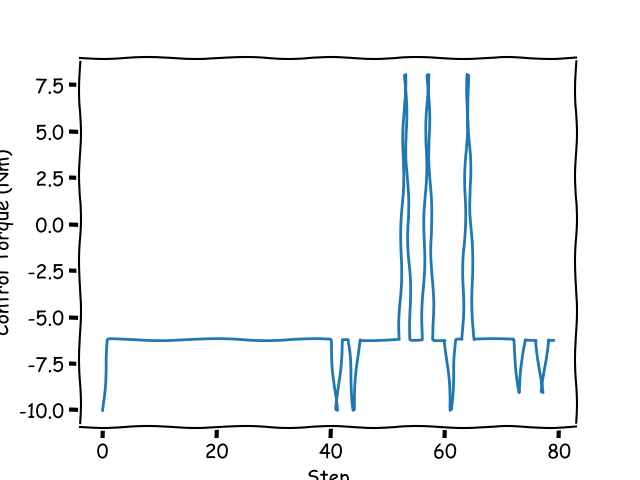
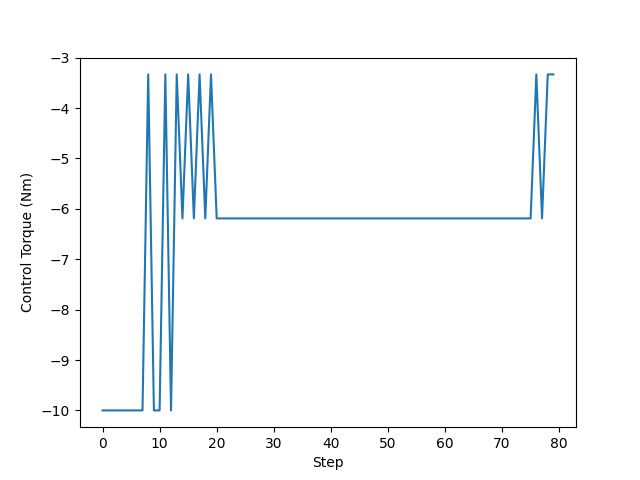
switched dynamics calculation

diff --git a/pendulum_envs.py b/pendulum_envs.py
@@ -1,12 +1,6 @@
-# Import required libararies
-from pickletools import uint1
 import gym
-import matplotlib.pyplot as plt 
-import random
 import numpy as np
-from math import sin, cos
 from gym.spaces import *
-
 from math import *
 from PIL import *
 
@@ -23,16 +17,14 @@ class DoublePendulum(gym.Env):
         self.l2 = 1.0 # length of pendulum 2 (m)
 
         self.maxv = 8
-        self.max_cost = 0
 
         self.max_u = max_torque
         self.nu = nu
         if make_single:
-            self.m2 = 0
-            self.l2 = 0.01
+            self.m2 = 0.001
+            self.l2 = 0.001
 
         self.single = make_single
-        self.g = 9.81 # gravity (m/s)
         self.frix = 0.1 # friction coef
 
         self.q = np.zeros(4) # [th1, th2, dth1, dth2]
@@ -40,8 +32,6 @@ class DoublePendulum(gym.Env):
         self._update_x()
         self.u = 0.0
 
-        self.history = []
-        self.saving_history = False
         self.images = []
         self.last_cost =0.0
 
@@ -50,43 +40,12 @@ class DoublePendulum(gym.Env):
         # print(newU)
         return newU
 
-    def dynamics_update(self,dt, u):
-        try:
-            acc1 = (-self.m2*self.l1*self.q[2]**2*np.sin(self.q[0] - self.q[1])*np.cos(self.q[0] - self.q[1]) + self.m2*self.g*np.sin(self.q[1])*np.cos(self.q[0] - self.q[1]) - self.m2*self.l2*self.q[3]**2*np.sin(self.q[0] - self.q[1]) - (self.m1 + self.m2)*self.g*np.sin(self.q[0])) / ((self.m1 + self.m2)*self.l1 - self.m2*self.l1*np.cos(self.q[0] - self.q[1])**2) - self.frix * self.q[2]
-            acc2 = (self.m2*self.l2*self.q[3]**2*np.sin(self.q[0] - self.q[1])*np.cos(self.q[0] - self.q[1]) + (self.m1 + self.m2)*self.g*np.sin(self.q[0])*np.cos(self.q[0] - self.q[1]) + self.l1*self.q[2]**2*np.sin(self.q[0]-self.q[1])*(self.m1 + self.m2) - self.g*np.sin(self.q[1])*(self.m1 + self.m2)) / (self.l2*(self.m1 + self.m2) - self.m2*self.l2*np.cos(self.q[0] - self.q[1])**2) - self.frix * self.q[3]
-            # yes it's horrible but it's not about the pendulum simulation is it? :)
-
-            acc1 += u
-            self.u = u
-
-            self.q[2] += dt * acc1
-            self.q[3] += dt * acc2
-            self.q[2] = np.clip(self.q[2], - self.maxv, self.maxv)
-            self.q[3] = np.clip(self.q[3], - self.maxv, self.maxv)
-            self.q[0] += (self.q[2] * dt)
-            self.q[1] += (self.q[3] * dt)
-            # self.q[0] = self.q[0] % (np.pi * 2)
-            # self.q[1] = self.q[1] % (np.pi * 2)
-
-            self._update_x()
-
-            if self.saving_history:
-                self.history.append(self.q)
-            return True
-        except Exception as e:
-            print(self.q)
-            print(u)
-            print(e)
-            return False 
-
     def step(self, action):
         dt = self.DT / np.double(self.updates_per_step)
         terminal = False
         for i in range(self.updates_per_step):
-            if not self.dynamics_update(dt, self.intu2u(action)):
-                terminal = True
-                break
-
+            self.dynamics_update(dt, self.intu2u(action))
+        self._update_x()
         reward = self._calculate_reward()
         return self.q, reward, terminal, False, 0
         # return self.x, reward, terminal, False, 0
@@ -97,7 +56,7 @@ class DoublePendulum(gym.Env):
         cost = U_WEIGHT*self.u**2
         A = ((self.q[0] % (np.pi * 2)) - np.pi )**2
         # B = min(self.q[1], np.pi * 2 - self.q[1]) ** 2 # since we are keeping the angle between 0 and 2 pi
-        B = ((self.q[1] % (np.pi * 2)) - np.pi )**2
+        B = (self.q[1] % (np.pi * 2))**2
         C =  self.q[2] **2
         D =  self.q[3] **2
         cost += A
@@ -112,14 +71,14 @@ class DoublePendulum(gym.Env):
         return cost
     
     def _update_x(self):
-        self.x[0] = self.l1 * cos(- np.pi/ 2+ self.q[0])
-        self.x[1] = self.l1 * sin(- np.pi/ 2+self.q[0])
-        self.x[2] = self.x[0] + self.l2 * cos(- np.pi/ 2+self.q[1])
-        self.x[3] = self.x[1] + self.l2 * sin(- np.pi/ 2+self.q[1])
-        self.x[4] = self.l1 * cos(- np.pi/ 2+ self.q[2])
-        self.x[5] = self.l1 * sin(- np.pi/ 2+self.q[2])
-        self.x[6] = self.x[4] + self.l2 * cos(- np.pi/ 2+self.q[3])
-        self.x[7] = self.x[5] + self.l2 * sin(- np.pi/ 2+self.q[3])
+        self.x[0] = self.l1 * np.sin( self.q[0])
+        self.x[1] = -self.l1 * np.cos(self.q[0])
+        self.x[2] = self.x[0] + self.l2 * np.sin(self.q[1]+ self.q[0])
+        self.x[3] = self.x[1] - self.l2 * np.cos(self.q[1]+self.q[0])
+        self.x[4] = self.l1 * self.q[2]* np.cos( self.q[2])
+        self.x[5] = self.l1 * self.q[2]* np.sin(self.q[2])
+        self.x[6] = self.x[4] + self.l2 * np.cos(self.q[3]+ self.q[2]) * (self.q[2] + self.q[3])
+        self.x[7] = self.x[5] + self.l2 * np.sin(self.q[3]+ self.q[2]) * (self.q[2] + self.q[3])
 
     def reset(self, gaussian=False):
         if not gaussian:
@@ -172,3 +131,51 @@ class DoublePendulum(gym.Env):
         else:
             self.images[0].save('Graphs/Eval Gifs/'+ NAME + '.gif',
             save_all=True, append_images=self.images[1:], loop=0)
+    
+    def calcM(self): # M(q)
+        m2l22 = self.m2 * self.l2 **2
+        m2l1l2c2 = self.m2 * self.l2 * self.l1 * np.cos(self.q[1])
+        self.M = np.zeros((2,2))
+        self.M[0,0] = (self.m1 + self.m2) * self.l1**2 + m2l22 + 2*m2l1l2c2
+        self.M[0,1] = m2l22 + m2l1l2c2
+        self.M[1,0] = m2l22 + m2l1l2c2
+        self.M[1,1] = m2l22
+        self.Minv = np.linalg.inv(self.M)
+    
+    def calcC(self): # C(qdot, q)
+        self.C = np.zeros((2,2))
+        x = self.m2 * self.l1 * self.l2 * np.sin(self.q[1])
+        self.C[0,1] = - x * (2*self.q[2] + self.q[3])
+        self.C[1,0] =  0.5 * x * (2*self.q[2] + self.q[3])
+        self.C[1,1] = - 0.5* x * self.q[2]
+    
+    def calcTg(self): # tau_g(q) forces of gravity
+        self.tau_g = np.zeros((2,1))
+        g2 = self.m2 * self.l2 * np.sin(self.q[0] + self.q[1])
+        self.tau_g[0] = (self.m1 + self.m2) * self.l1 * np.sin(self.q[0]) + g2
+        self.tau_g[1] = g2
+        self.tau_g *= -9.81
+    
+    def calcTf(self): # tau_f(q dot) force due to friction
+        self.tau_f = np.zeros((2,1))
+        self.tau_f[0] = - self.frix * self.q[2]
+        self.tau_f[1] = - self.frix * self.q[3]
+    
+    def calcAccel(self):
+        self.qdot = np.array([[self.q[2], self.q[3]]]).T
+        self.A = self.Minv @ (self.tau_f + self.tau_g + self.u_vec - self.C @ self.qdot)
+    
+    def dynamics_update(self,dt, u):
+        self.calcM()
+        self.calcTg()
+        self.calcTf()
+        self.calcC()
+        self.u = u
+        self.u_vec = np.array([[u,0]]).T
+        self.calcAccel()
+        self.q[2] += dt * self.A[0]
+        self.q[3] += dt * self.A[1]
+        self.q[2] = np.clip(self.q[2], - self.maxv, self.maxv)
+        self.q[3] = np.clip(self.q[3], - self.maxv, self.maxv)
+        self.q[0] += (self.q[2] * dt)
+        self.q[1] += (self.q[3] * dt)

diff --git a/learning.py b/learning.py
@@ -27,20 +27,20 @@ class DQNSolver(nn.Module):
 
         self.fc = nn.Sequential(
             nn.Linear(input_shape[0], 16 * width),
-            nn.Tanh(),
+            nn.LeakyReLU(),
             nn.Linear(16 * width, 32 * width),
-            nn.Tanh(),
+            nn.LeakyReLU(),
             nn.Linear(32* width, 64* width),
-            nn.Tanh(),
+            nn.LeakyReLU(),
             nn.Linear(64* width, 64* width),
-            nn.Tanh(),
+            nn.LeakyReLU(),
             nn.Linear(64* width, n_actions)
         )
-        # for layer in self.fc: # THIS IS FOR WHEN WE USE RELU activation
-        #     try:
-        #         nn.init.kaiming_uniform(layer.weight)
-        #     except:
-        #         print("layer dont have that")
+        for layer in self.fc: # THIS IS FOR WHEN WE USE RELU activation
+            try:
+                nn.init.kaiming_uniform(layer.weight)
+            except:
+                print("layer dont have that")
     
     def forward(self, x):
         out = self.fc(x)
@@ -217,12 +217,12 @@ def train(NUM_EPISODES=10000, \
                      )
 
     for i in tqdm(range(NUM_EPISODES)):
-        state = env.reset(True)
+        state = env.reset()
         state = torch.Tensor([state])
         steps = 0
         total_cost = 0.0
         g = 1.0
-        while True and steps < MAX_STEPS:
+        while steps < MAX_STEPS:
             action = agent.choose_action(state, explore_rate)
             steps += 1
             state_next, cost, terminal, _, _ = env.step(action.item())
@@ -273,15 +273,16 @@ def evaluate(NAME="Default", DOUBLE = False, MAX_TORQUE=10.0, NET_WIDTH=1):
     model.eval()
 
     # run starting from 0 and generate trajectory
-    env.q = np.array([0.0,0.0,0.0,0.0])
+    env.q = np.array([3.0,0.0,0.0,0.0])
     state = torch.Tensor([env.q])
-    steps = 80
+    steps = 800
     q_hist = np.zeros((steps+1, env.q.shape[0]))
     u_hist = np.zeros(steps)
     q_hist[0] = env.q
     total_cost = 0
     for i in range(steps):
-        u = torch.argmin(model(state), 1).item()
+        # u = torch.argmin(model(state), 1).item()
+        u = env.nu /2
         state_next, cost, terminal, _, _ = env.step(u)
         u_hist[i] = env.u
         q_hist[i+1] = state_next
@@ -297,8 +298,8 @@ def evaluate(NAME="Default", DOUBLE = False, MAX_TORQUE=10.0, NET_WIDTH=1):
 
 
 if __name__ == "__main__":
-    # train(DOUBLE=False, NET_WIDTH=1, BATCH_SIZE=256,MAX_MEM=10000, MAX_STEPS=100, DYNAMIC_TAU=False, ALPHA=1e-5, NUM_EPISODES=2000, NAME="dyn", SAVE=200, EXPLORE_LINEAR_DECAY=True)
-    evaluate(DOUBLE=False, NET_WIDTH=1, NAME="dyn")
+    train(DOUBLE=True, NET_WIDTH=2, BATCH_SIZE=512, MAX_MEM=10000, MAX_STEPS=100, TAU=1e-6, ALPHA=1e-5, NUM_EPISODES=20000, NAME="New", EXPLORE_LINEAR_DECAY=True)
+    evaluate(DOUBLE=True, NET_WIDTH=2, NAME="New")
 
 
 
